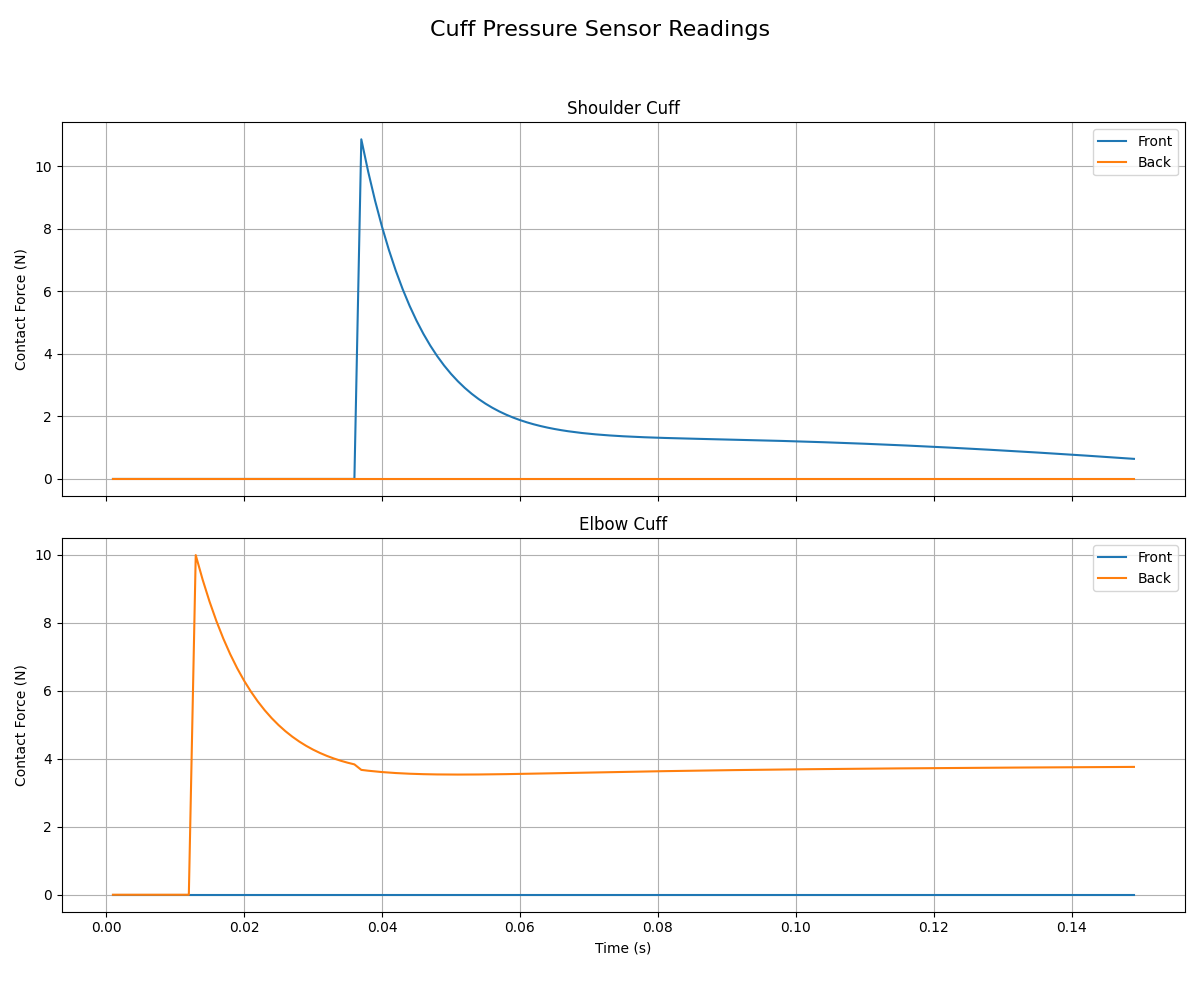
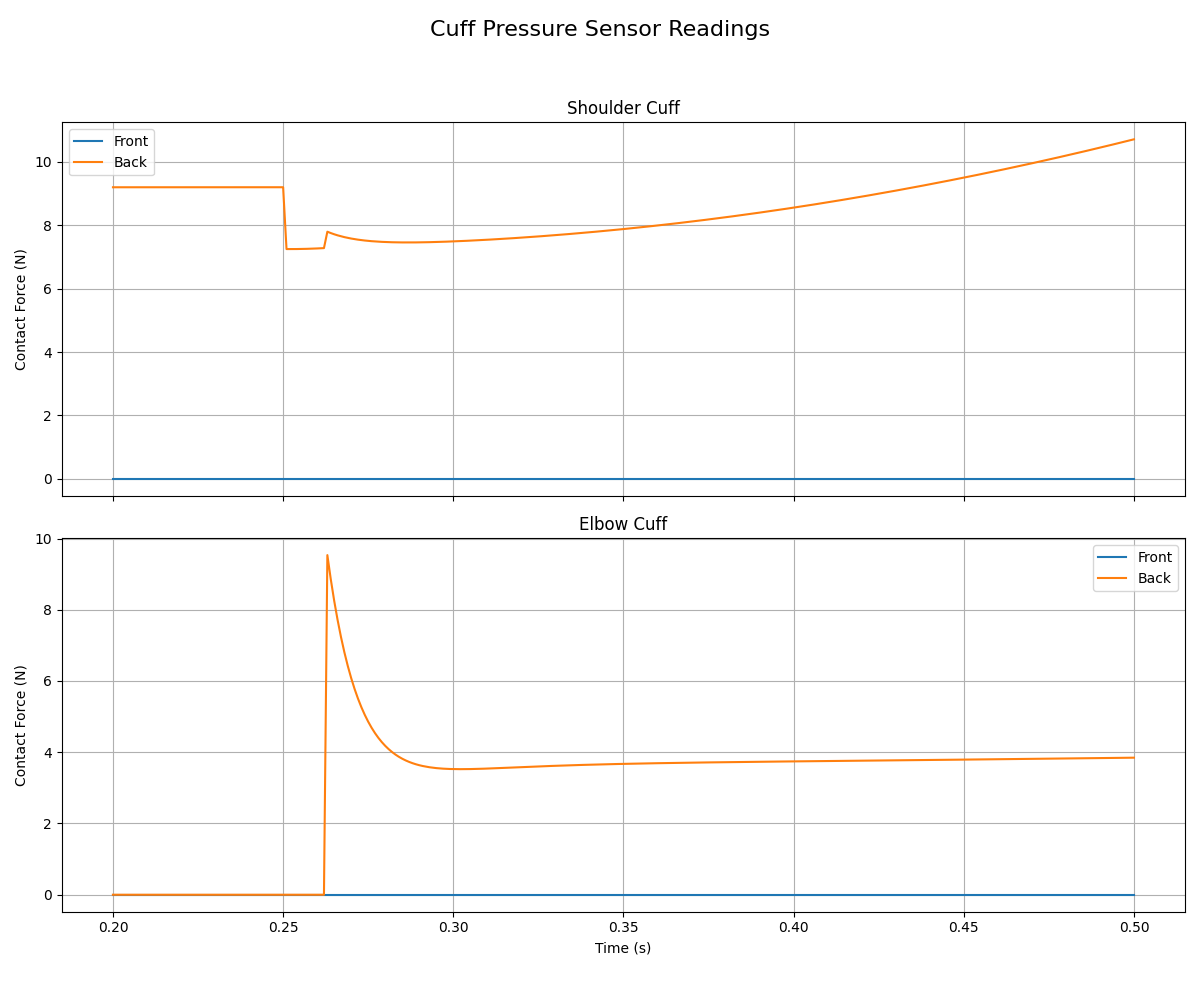
warning: cuff forces may not be "internal"

diff --git a/arm_dynamics/exo_arm_sim.py b/arm_dynamics/exo_arm_sim.py
@@ -19,7 +19,7 @@ data = mujoco.MjData(model)
 init_sho_rad = 45 * np.pi / 180
 init_elb_rad = 75 * np.pi / 180
 
-duration = 0.2  # seconds
+duration = 0.5  # seconds
 times = []
 sho_ang = []
 elb_ang = []
@@ -59,11 +59,15 @@ with mujoco.viewer.launch_passive(model, data) as viewer:
         step_start = time.time()
 
         # apply constant torque to the exo motors (Nm)
-        shoulder_torque = 2
-        elbow_torque = 2
+        exo_sho_torque = 2 if data.time < 0.25 else 4
+        exo_elb_torque = 0 if data.time < 0.25 else 2
+        human_sho_torque = -2
+        human_elb_torque = 0
 
-        data.ctrl[0] = shoulder_torque
-        data.ctrl[1] = elbow_torque
+        data.ctrl[0] = exo_sho_torque
+        data.ctrl[1] = exo_elb_torque
+        data.ctrl[2] = human_sho_torque
+        data.ctrl[3] = human_elb_torque
 
         mujoco.mj_step(model, data)
         times.append(data.time)
@@ -73,11 +77,10 @@ with mujoco.viewer.launch_passive(model, data) as viewer:
         for name, id in sensor_ids.items():
             sensor_readings[name].append(data.sensordata[id])
 
-        viewer.cam.lookat[:] = data.body('human_forearm').xpos
         viewer.sync()
 
         # slo-mo
-        time_until_next_step = (model.opt.timestep * 50) - \
+        time_until_next_step = (model.opt.timestep * 25) - \
             (time.time() - step_start)
         if time_until_next_step > 0:
             time.sleep(time_until_next_step)
@@ -88,7 +91,7 @@ print("Simulation complete. Plotting results...")
 fig, axs = plt.subplots(2, 1, figsize=(12, 10), sharex=True)
 fig.suptitle('Cuff Pressure Sensor Readings', fontsize=16)
 times_np = np.array(times)
-plot_mask = times_np <= 0.15
+plot_mask = times_np >= 0.2
 times_to_plot = times_np[plot_mask]
 
 # shoulder contact forces
